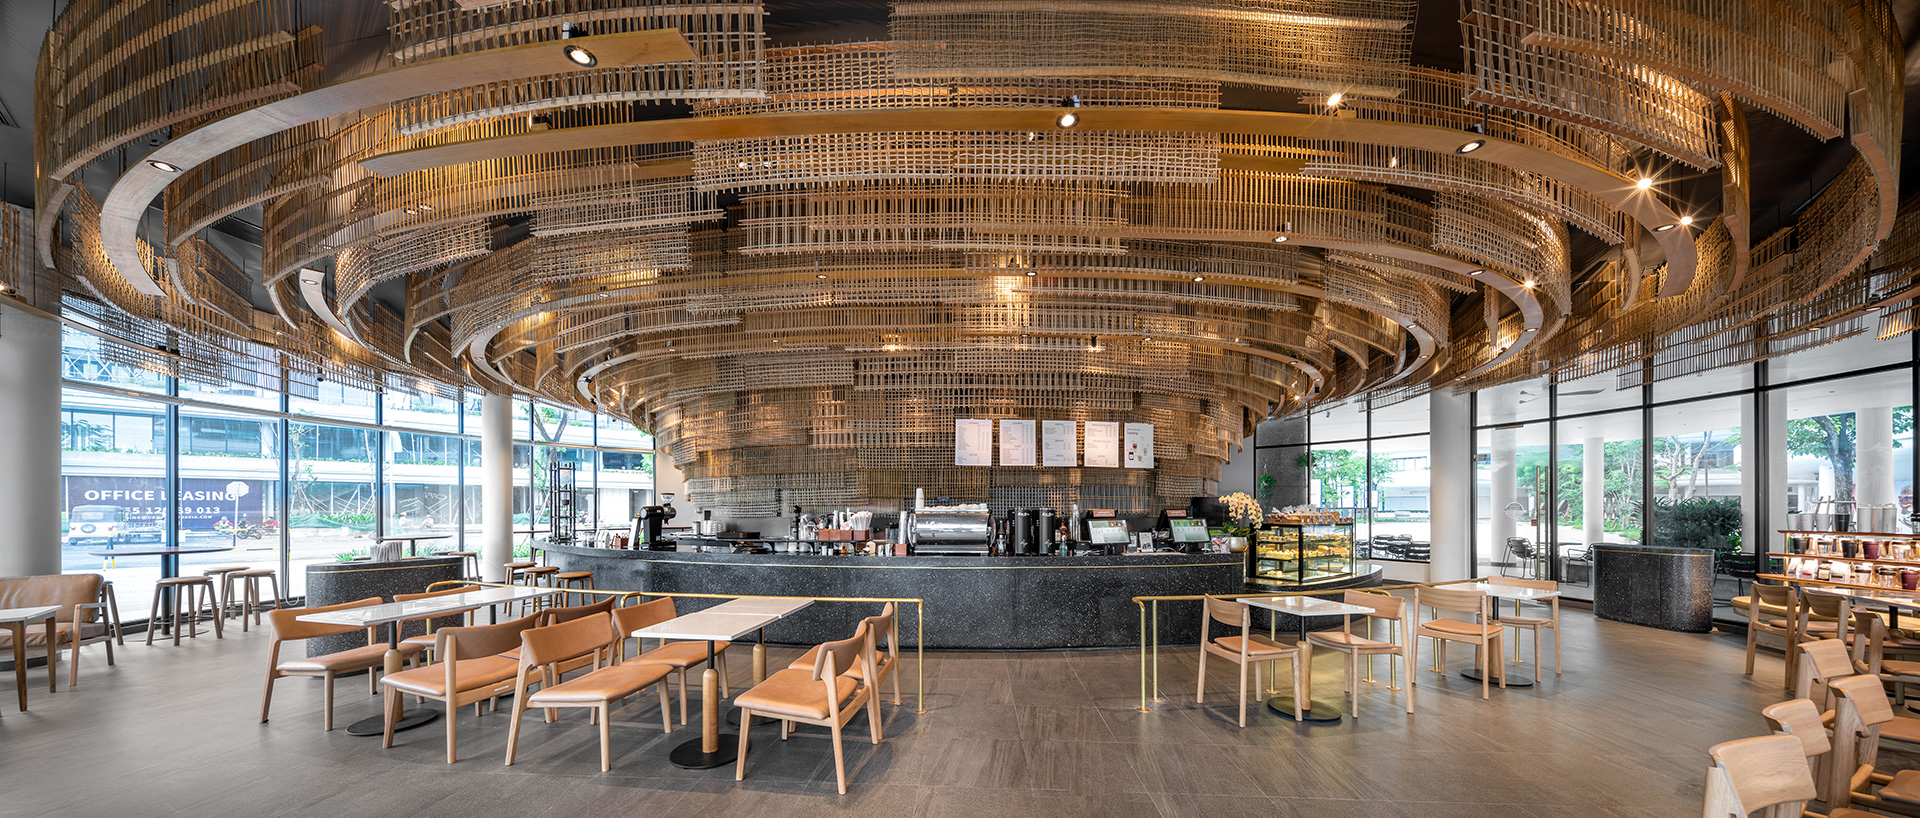
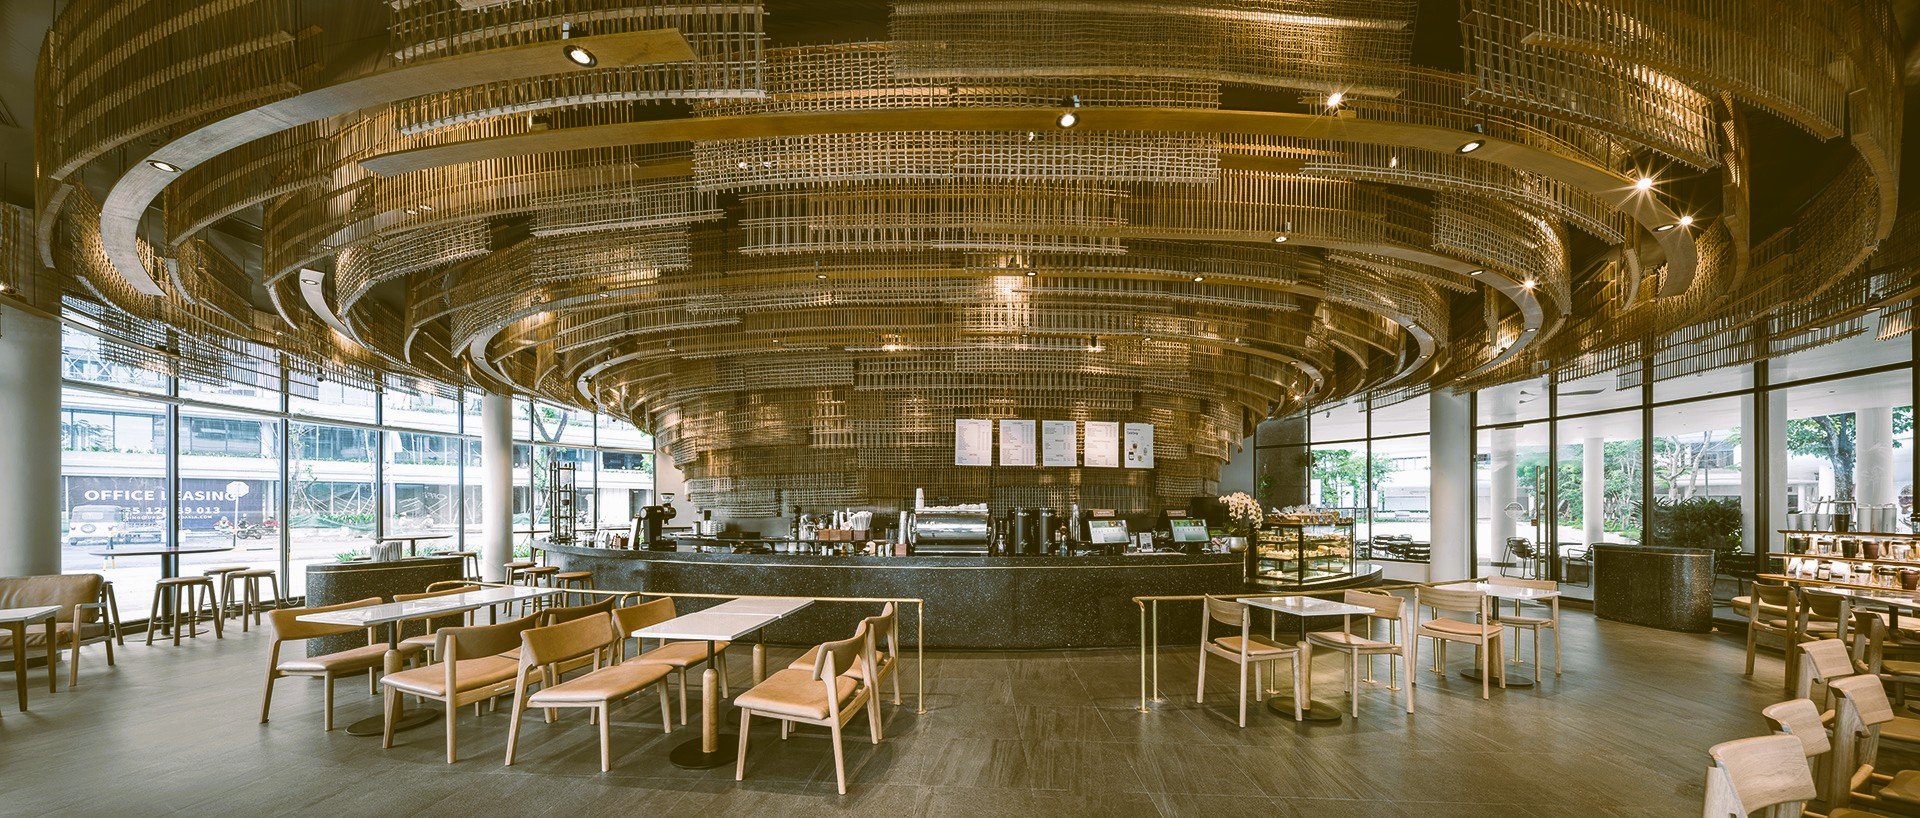
Changes some style for drinks

diff --git a/client/src/index.css b/client/src/index.css
@@ -139,6 +139,8 @@ header h1{
 }
 
 
+
+
 /*DRINK PAGE FROM HERE ON*/
 
 #drinkPage{
@@ -180,6 +182,12 @@ header h1{
     align-items: center;
     background-color: rgba(155, 156, 135, 0.81);
     border-radius: 15px;
+    transition: 0.3s;
+    
+}
+
+.drinksItem:hover{
+    background-color: rgba(155, 156, 135, 0.90);
 }
 
 
@@ -227,6 +235,7 @@ header h1{
     width: 30%;
     transition: 0.2s;
     font-weight: 600;
+    overflow-x: visible;
 }
 
 
@@ -257,3 +266,7 @@ header h1{
 }
 
 
+.orderingSection button:active{
+    transform: scale(0.90); 
+    background-color: #87949d; 
+}